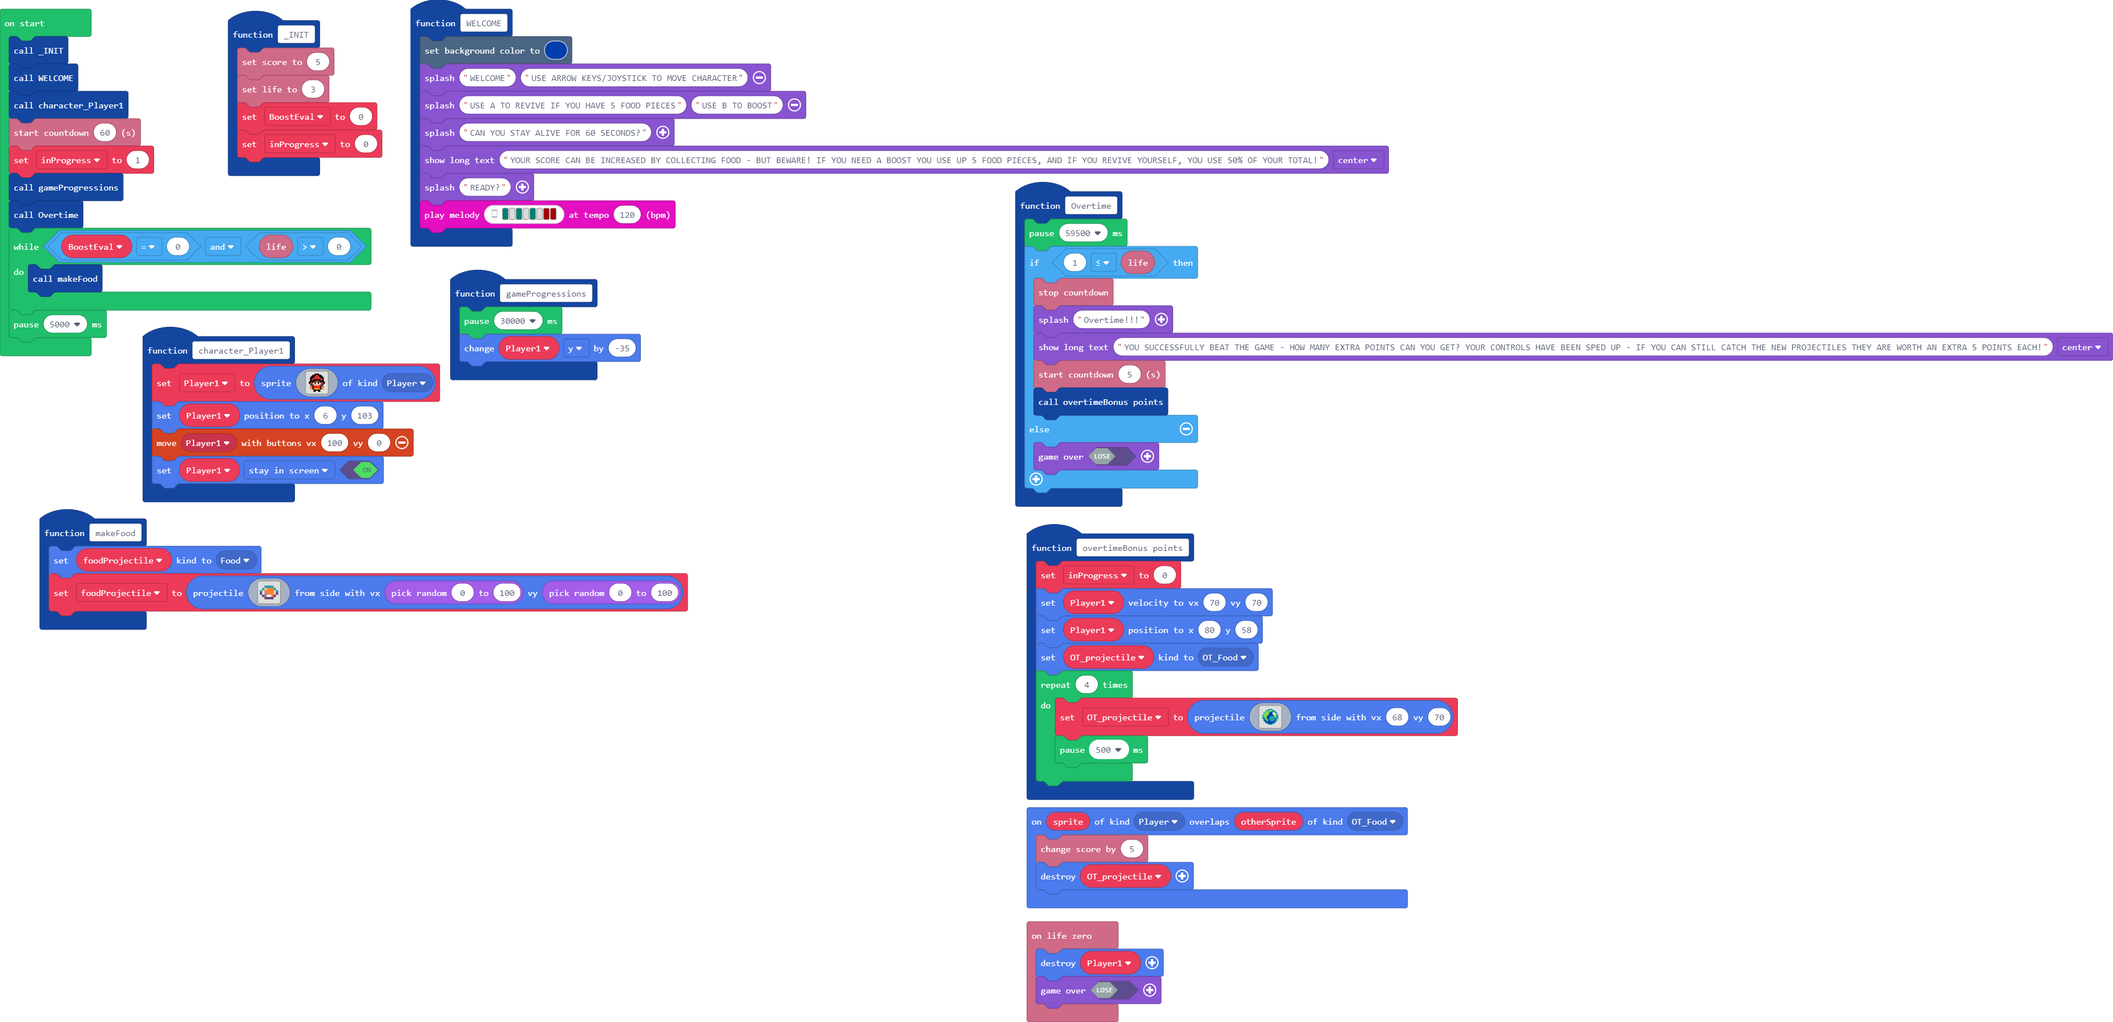
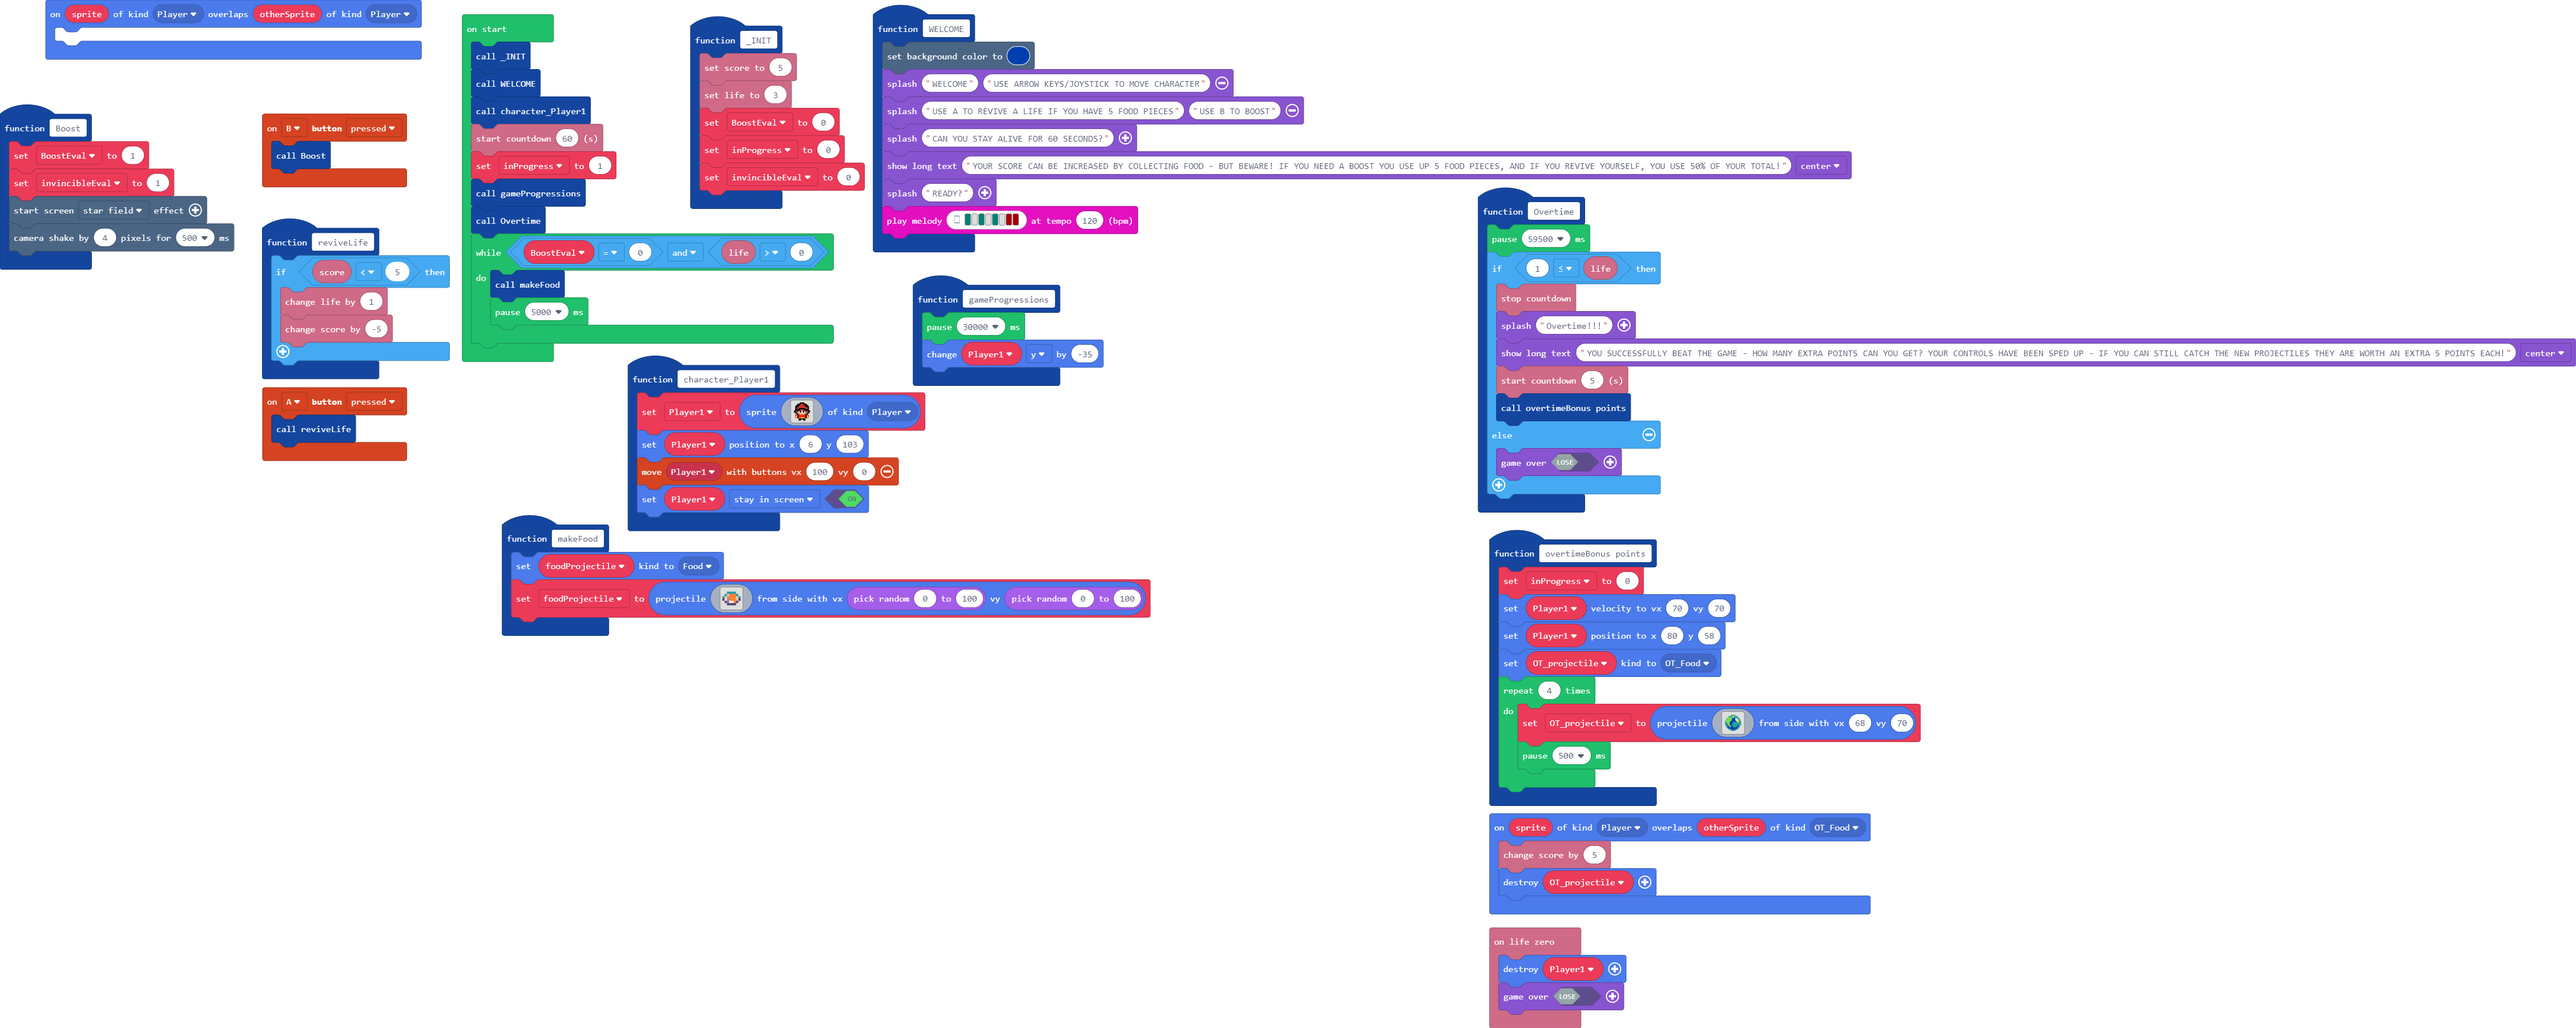
Boost Code added

Changed region(s): [[0.0, 0.0, 1.0, 1.0]]

diff --git a/main.ts b/main.ts
@@ -12,6 +12,18 @@ c 1 b 4 4 4 d c
 . . c c c c . . 
 `, Math.randomRange(0, 100), Math.randomRange(0, 100))
 }
+function Boost () {
+    BoostEval = 1
+    invincibleEval = 1
+    effects.starField.startScreenEffect()
+    scene.cameraShake(4, 500)
+}
+function reviveLife () {
+    if (info.score() < 5) {
+        info.changeLifeBy(1)
+        info.changeScoreBy(-5)
+    }
+}
 function Overtime () {
     pause(59500)
     if (1 <= info.life()) {
@@ -51,10 +63,16 @@ function gameProgressions () {
     pause(30000)
     Player1.y += -35
 }
+controller.B.onEvent(ControllerButtonEvent.Pressed, function () {
+    Boost()
+})
+controller.A.onEvent(ControllerButtonEvent.Pressed, function () {
+    reviveLife()
+})
 function WELCOME () {
     scene.setBackgroundColor(8)
     game.splash("WELCOME", "USE ARROW KEYS/JOYSTICK TO MOVE CHARACTER")
-    game.splash("USE A TO REVIVE IF YOU HAVE 5 FOOD PIECES", "USE B TO BOOST")
+    game.splash("USE A TO REVIVE A LIFE IF YOU HAVE 5 FOOD PIECES", "USE B TO BOOST")
     game.splash("CAN YOU STAY ALIVE FOR 60 SECONDS?")
     game.showLongText("YOUR SCORE CAN BE INCREASED BY COLLECTING FOOD - BUT BEWARE! IF YOU NEED A BOOST YOU USE UP 5 FOOD PIECES, AND IF YOU REVIVE YOURSELF, YOU USE 50% OF YOUR TOTAL!", DialogLayout.Center)
     game.splash("READY?")
@@ -87,6 +105,9 @@ function overtimeBonus_points () {
         pause(500)
     }
 }
+sprites.onOverlap(SpriteKind.Player, SpriteKind.Player, function (sprite, otherSprite) {
+	
+})
 info.onLifeZero(function () {
     Player1.destroy()
     game.over(false)
@@ -96,6 +117,7 @@ function _INIT () {
     info.setLife(3)
     BoostEval = 0
     inProgress = 0
+    invincibleEval = 0
 }
 sprites.onOverlap(SpriteKind.Player, SpriteKind.OT_Food, function (sprite, otherSprite) {
     info.changeScoreBy(5)
@@ -103,6 +125,7 @@ sprites.onOverlap(SpriteKind.Player, SpriteKind.OT_Food, function (sprite, other
 })
 let OT_projectile: Sprite = null
 let Player1: Sprite = null
+let invincibleEval = 0
 let foodProjectile: Sprite = null
 let BoostEval = 0
 let inProgress = 0
@@ -115,5 +138,5 @@ gameProgressions()
 Overtime()
 while (BoostEval == 0 && info.life() > 0) {
     makeFood()
+    pause(5000)
 }
-pause(5000)
